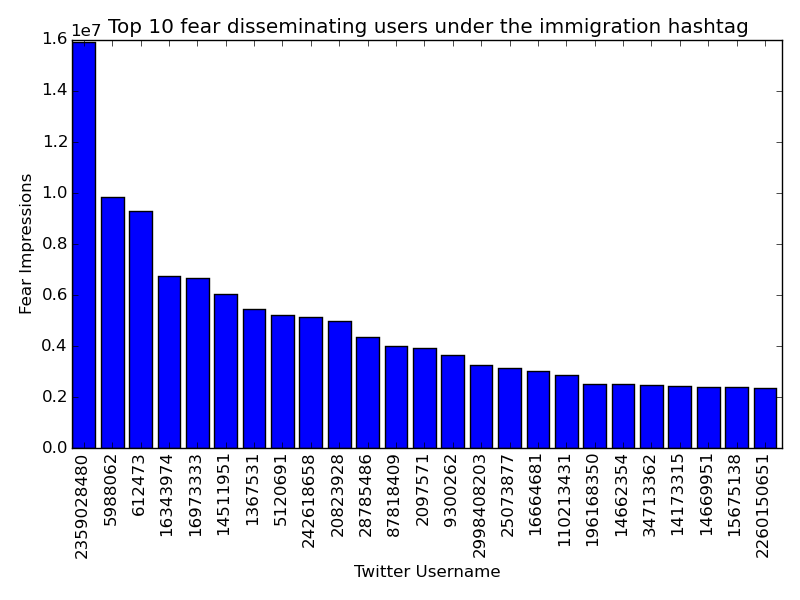
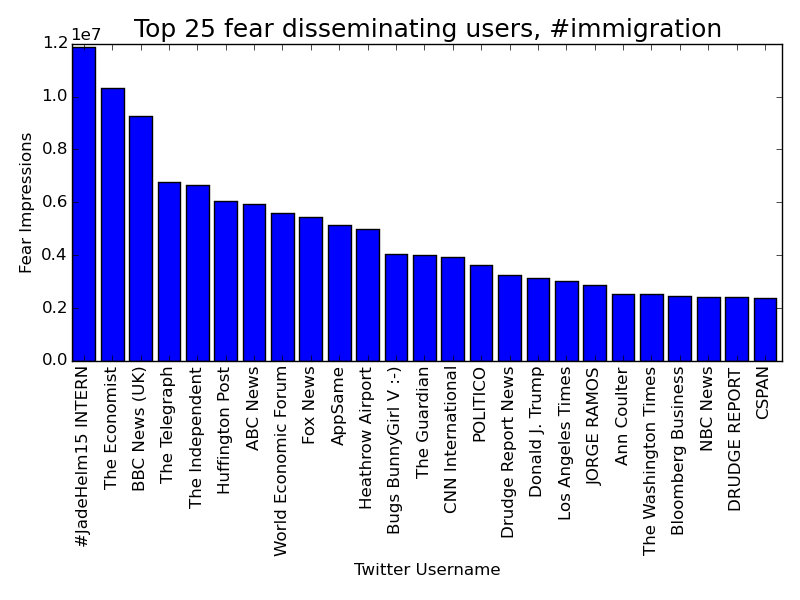
Figure corrections + code that goes with it

diff --git a/project/plots/plot_count.py b/project/plots/plot_count.py
@@ -10,39 +10,40 @@ b = conn.get_bucket(bucket)
 
 cats = 'isis','ebola','trump','immigration','greece'
 for graph in cats:
-	f=""
-	for key in bucket.list(prefix="emr/output/fearcounts/%s"%graph):
-		# Search for the key that actually has output
-	    contents = key.get_contents_as_string()
-	    if len(contents)>0:
-	        f=key.get_contents_as_string()
-	        break
+    f=""
+    for key in bucket.list(prefix="emr/output/fearcounts/%s"%graph):
+        # Search for the key that actually has output
+        contents = key.get_contents_as_string()
+        if len(contents)>0:
+            f=key.get_contents_as_string()
+            break
 
 
-	f=f[6:]
-	agg = f.split('], [')
+    f=f[6:]
+    agg = f.split('], [')
 
-	max_n = 25
-	i = 0
-	x, y = [], []
-	for val in agg:
-	    i+=1
-	    if i>25:
-	        break
-	    tup = val.split(', ')
-	    y.append(int(tup[0].lstrip("[")[0:]))
-	    x.append(tup[1][1:].rstrip("\""))
+    max_n = 25
+    i = 0
+    x, y = [], []
+    for val in agg:
+        i+=1
+        if i>25:
+            break
+        tup = val.split(', ')
+        y.append(int(tup[0].lstrip("[")[0:]))
+        x.append(tup[1][1:].rstrip("\""))
 
-	labels = x
-	values = y
+    labels = x
+    values = y
 
-	ind = np.arange(max_n)
-	width = 0.8
-	plt.bar(ind+width/2,values,align = 'center')
-	plt.ylabel('Fear Impressions')
-	plt.xlabel('Twitter Username')
-	plt.title('Top 10 fear disseminating users under the %s hashtag'%graph)
-	plt.xticks(ind+width/2,labels, rotation = 'vertical')
-	plt.tight_layout()
-	plt.savefig('fc_%s'%graph+'.png')
-	plt.clf()
+    ind = np.arange(max_n)
+    width = 0.8
+    plt.bar(ind+width/2,values,align = 'center')
+    plt.ylabel('Fear Impressions')
+    plt.xlabel('Twitter Username')
+    plt.title('Top %s fear disseminating users, #%s'%(str(max_n),graph), fontsize = 18)
+    plt.xticks(ind+width/2,labels, rotation = 'vertical')
+
+    plt.tight_layout()
+    plt.savefig('fc_%s'%graph+'.png')
+    plt.clf()

diff --git a/project/plots/plot_ts.py b/project/plots/plot_ts.py
@@ -47,7 +47,7 @@ for graph in cats:
 	plt.ylabel('% Fearful Tweets')
 
 	plt.xlabel('Date')
-	plt.title('#%s Fear Trends'%graph)
+	plt.title('#%s Fear Trends'%graph,fontsize = 22)
 
 	plt.xticks(ind+width/2,labels, rotation = 'vertical')
 
